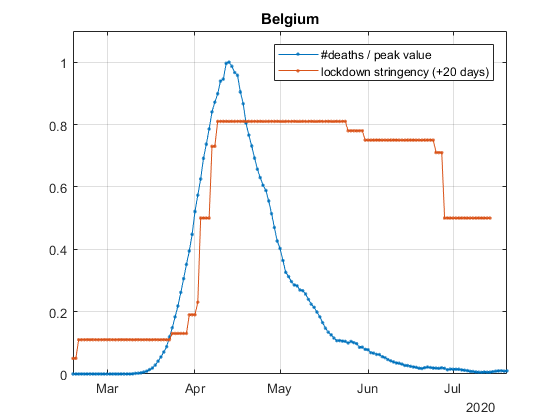
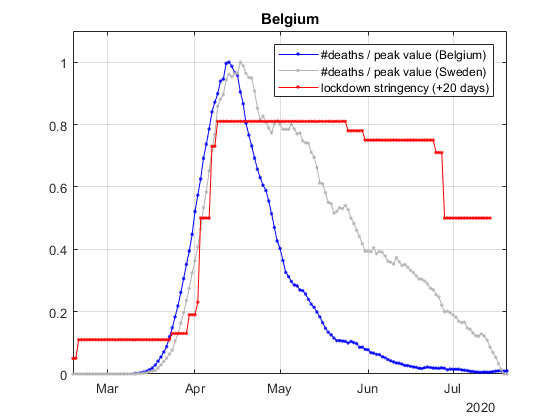
wip

diff --git a/lockdown.m b/lockdown.m
@@ -23,7 +23,11 @@ country = 183; countryLd = 152; % Sweden
 nmean = 7;
 dateFormat = 7;
 
-DateString = {'03/01/2020', '03/10/2020',  '03/20/2020', '04/01/2020',  '04/10/2020', '04/20/2020', '05/01/2020',  '05/10/2020', '05/20/2020', '06/01/2020',  '06/10/2020', '06/20/2020', '06/30/2020'};
+comparecountry = 20; comparecountryLd = 12; % Belgium
+% comparecountry = 183; comparecountryLd = 152; % Sweden
+
+%DateString = {'03/01/2020', '03/10/2020',  '03/20/2020', '04/01/2020',  '04/10/2020', '04/20/2020', '05/01/2020',  '05/10/2020', '05/20/2020', '06/01/2020',  '06/10/2020', '06/20/2020', '06/30/2020'};
+DateString = {'3/1/2020', '4/1/2020',  '5/1/2020', '6/1/2020', '7/1/2020'};
 
 
 lockdownStringency = [];
@@ -54,13 +58,17 @@ end
 % % datetick('x',dateFormat, 'keepticks')
 
 [day0, day1, day2, deaths] = getDeathsSweden(nmean);
-%[day0, day1, day2, deaths] = getDeaths(country,nmean);
-plot(day2 + 3, deaths/max(deaths), '.-'); hold on
-plot(lockdownStringencyDay + 20, lockdownStringency/100, '.-'); hold on
+% [day0, day1, day2, deaths] = getDeaths(country,nmean);
+% [~, ~, ~, comparedeaths] = getDeathsSweden(nmean);
+[~, ~, ~, comparedeaths] = getDeaths(comparecountry,nmean);
+plot(day2 + 3, deaths/max(deaths), '.-', 'Color', 'blue'); hold on
+plot(day2 + 3, comparedeaths/max(comparedeaths), '.-', 'Color',  [0.7 0.7 0.7]); hold on
+plot(lockdownStringencyDay + 20, lockdownStringency/100, '.-', 'Color', 'red'); hold on
 grid on
 title([rates.world(country).area]);% iso3(countryLd)]);
 set(gca, 'XLim', datetime({'02/18/2020', '07/20/2020'},'format','MM/dd/yyyy'))
-legend('#deaths / peak value', 'lockdown stringency (+20 days)')
+set(gca, 'XTick', datetime(DateString,'format','MM/dd/yyyy'))
+legend(['#deaths / peak value (' rates.world(country).area ')'], ['#deaths / peak value (' rates.world(comparecountry).area ')'],  'lockdown stringency (+20 days)')
 ylim([0, 1.1])
 
 % Xfit=1:1+160-68;
